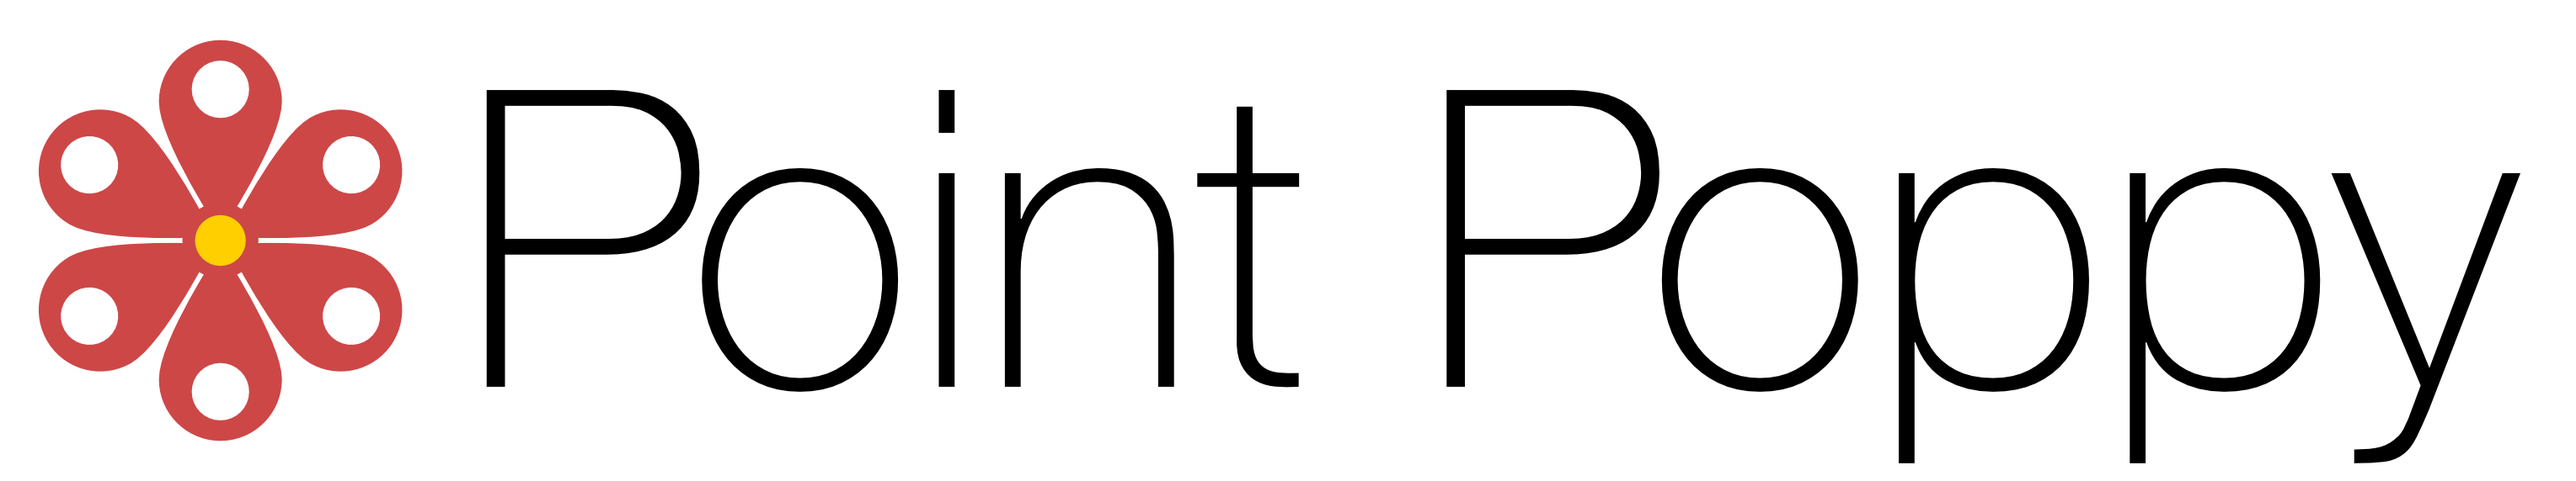
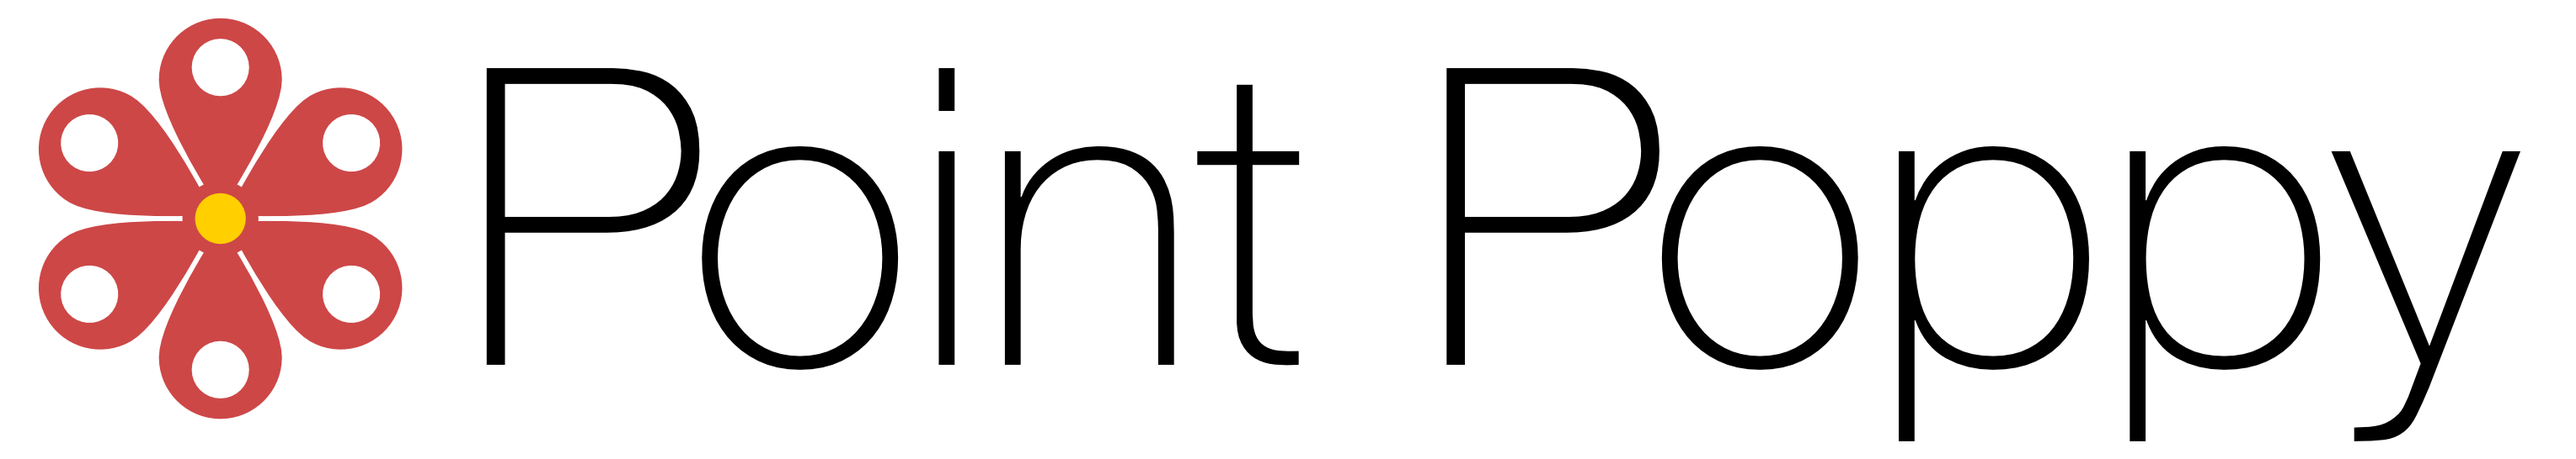
added button margins

diff --git a/static/index2.html b/static/index2.html
@@ -3,14 +3,10 @@
 
 <head>
   <title>Point Poppy</title>
-
-  <script
-        src="http://code.jquery.com/jquery-3.3.1.min.js"
-        integrity="sha256-FgpCb/KJQlLNfOu91ta32o/NMZxltwRo8QtmkMRdAu8="
-        crossorigin="anonymous"></script>
-      <script type="text/javascript">
-        var $j = $.noConflict(true);
-      </script>
+  <script src="http://code.jquery.com/jquery-3.3.1.min.js" integrity="sha256-FgpCb/KJQlLNfOu91ta32o/NMZxltwRo8QtmkMRdAu8=" crossorigin="anonymous"></script>
+  <script type="text/javascript">
+    var $j = $.noConflict(true);
+  </script>
 
   <link rel="stylesheet" href="https://unpkg.com/leaflet@1.3.1/dist/leaflet.css" />
   <link href="styles/styles.css" rel="stylesheet" type="text/css" />
@@ -22,7 +18,7 @@
 <body>
   <div class="container-fluid">
     <div id="page-holder">
-      <a href="/"><img src="pointpoppy.png" width="30%" class="mt-3"></a>
+      <a href="/"><img src="pointpoppy.png" width="40%" class="mt-3"></a>
       <!-- <h1 class="display-4">Point Poppy</h1> -->
       <h5>Explore California! Select a national park.</h5>
       <hr>
@@ -32,8 +28,7 @@
           <h2>Map</h2>
           <div id="map"></div>
 
-          <br></br>
-
+          <div class="btn-toolbar">
           <button type="button" class="btn btn-outline-success parkid" id="Redwood" onclick="changeName('Redwood')">Redwood</button>
           <button type="button" class="btn btn-outline-success parkid" id="Sequoia" onclick="changeName('Sequoia')">Sequoia</button>
           <button type="button" class="btn btn-outline-success parkid" id="Joshuatree" onclick="changeName('Joshuatree')">Joshua Tree</button>
@@ -51,41 +46,41 @@
           <button type="button" class="btn btn-outline-success parkid" id="SantaMonicaMountains" onclick="changeName('SantaMonicaMountains')">Santa Monica Mountains</button>
           <button type="button" class="btn btn-outline-success parkid" id="Sequoia" onclick="changeName('Sequoia')">Sequoia and Kings Canyon</button>
           <button type="button" class="btn btn-outline-success parkid" id="Yosemite" onclick="changeName('Yosemite')">Yosemite</button>
+        </div>
 
         </div>
         <div class="col-sm-3">
           <h2 id="parkName">Choose a park!</h2>
           <h5>Trails</h5>
           <div id="trails"></div>
-
         </div>
         <div class="col-sm-3">
           <br>
-          <br>          
+          <br>
           <h5>Gallery</h5>
           <img src="#" id="parkPic" width="60%">
         </div>
+      </div>
     </div>
-  </div>
 
-  <script src="https://code.jquery.com/jquery-3.3.1.slim.min.js" integrity="sha256-3edrmyuQ0w65f8gfBsqowzjJe2iM6n0nKciPUp8y+7E=" crossorigin="anonymous"></script>
-  <script src="https://cdnjs.cloudflare.com/ajax/libs/popper.js/1.14.0/umd/popper.min.js" integrity="sha384-cs/chFZiN24E4KMATLdqdvsezGxaGsi4hLGOzlXwp5UZB1LY//20VyM2taTB4QvJ" crossorigin="anonymous"></script>
-  <script src="https://stackpath.bootstrapcdn.com/bootstrap/4.1.0/js/bootstrap.min.js" integrity="sha384-uefMccjFJAIv6A+rW+L4AHf99KvxDjWSu1z9VI8SKNVmz4sk7buKt/6v9KI65qnm" crossorigin="anonymous"></script>
+    <script src="https://code.jquery.com/jquery-3.3.1.slim.min.js" integrity="sha256-3edrmyuQ0w65f8gfBsqowzjJe2iM6n0nKciPUp8y+7E=" crossorigin="anonymous"></script>
+    <script src="https://cdnjs.cloudflare.com/ajax/libs/popper.js/1.14.0/umd/popper.min.js" integrity="sha384-cs/chFZiN24E4KMATLdqdvsezGxaGsi4hLGOzlXwp5UZB1LY//20VyM2taTB4QvJ" crossorigin="anonymous"></script>
+    <script src="https://stackpath.bootstrapcdn.com/bootstrap/4.1.0/js/bootstrap.min.js" integrity="sha384-uefMccjFJAIv6A+rW+L4AHf99KvxDjWSu1z9VI8SKNVmz4sk7buKt/6v9KI65qnm" crossorigin="anonymous"></script>
 
-  <script type="text/javascript" src="pointPoppy.js"></script>
+    <script type="text/javascript" src="pointPoppy.js"></script>
 
-  <script type="text/javascript" src="scripts/resize_map.js"></script>
-  <script src="https://unpkg.com/leaflet@1.3.1/dist/leaflet.js"></script>
-  <script type="text/javascript" src="scripts/leaflet.js"></script>
-  <script>
-    //changes text on button click
-    function changeName(name) {
-      console.log(name);
-      var elem = document.getElementById(name);
-      var txt = elem.textContent;
-      document.getElementById("parkName").innerHTML = txt;
-    }
-  </script>
+    <script type="text/javascript" src="scripts/resize_map.js"></script>
+    <script src="https://unpkg.com/leaflet@1.3.1/dist/leaflet.js"></script>
+    <script type="text/javascript" src="scripts/leaflet.js"></script>
+    <script>
+      //changes text on button click
+      function changeName(name) {
+        console.log(name);
+        var elem = document.getElementById(name);
+        var txt = elem.textContent;
+        document.getElementById("parkName").innerHTML = txt;
+      }
+    </script>
 </body>
 
 </html>

diff --git a/static/scripts/resize_map.js b/static/scripts/resize_map.js
@@ -13,7 +13,7 @@ resize();
 
 function resize(){
     if($(window).width() >= resize_map.minHeight){
-        $('#map').css("height", ($(window).height() - resize_map.mapmargin + 100));
+        $('#map').css("height", ($(window).height() - resize_map.mapmargin + 90));
         //document.write($(window).height() + " " + resize_map.mapmargin);
     // Map size cannot be smaller than the width on mobile devices.
     }else{

diff --git a/static/styles/styles.css b/static/styles/styles.css
@@ -10,3 +10,8 @@ html, body{
 #map-holder{
     padding-bottom: 1em;
 }
+
+.btn-toolbar .btn {
+    margin-top: 5px;
+    margin-right: 5px;
+}
